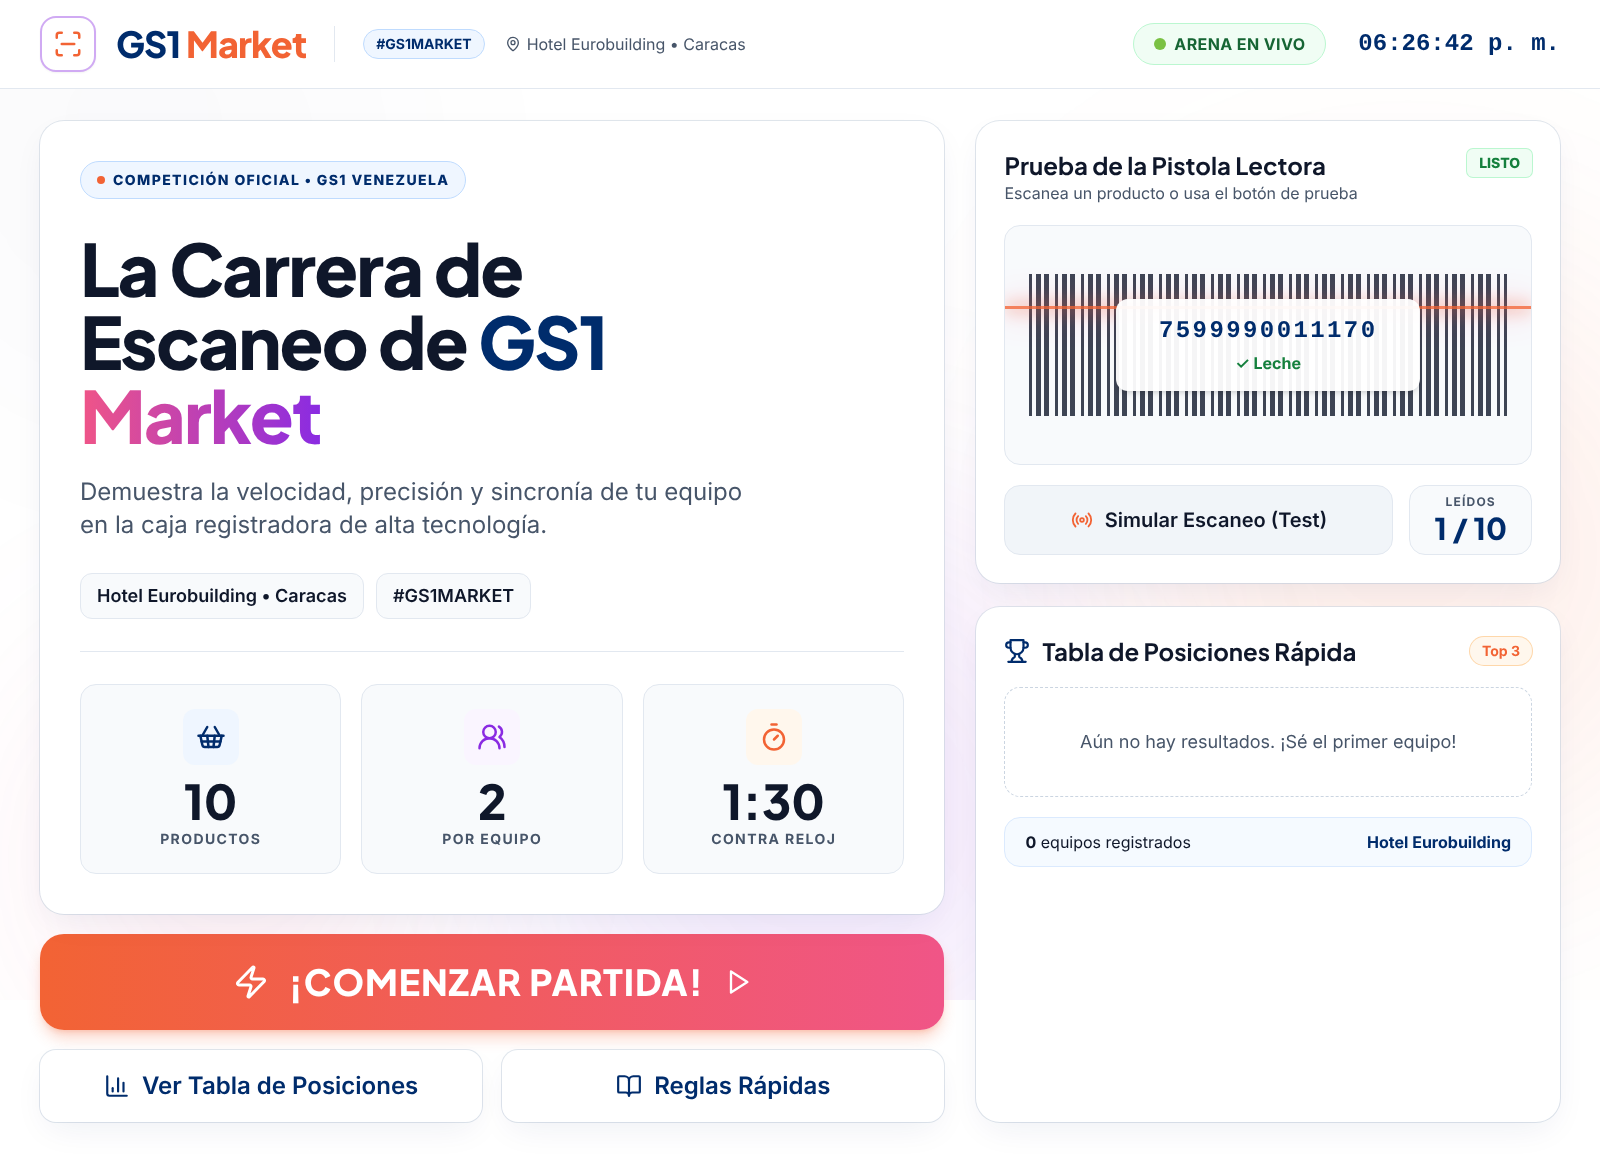
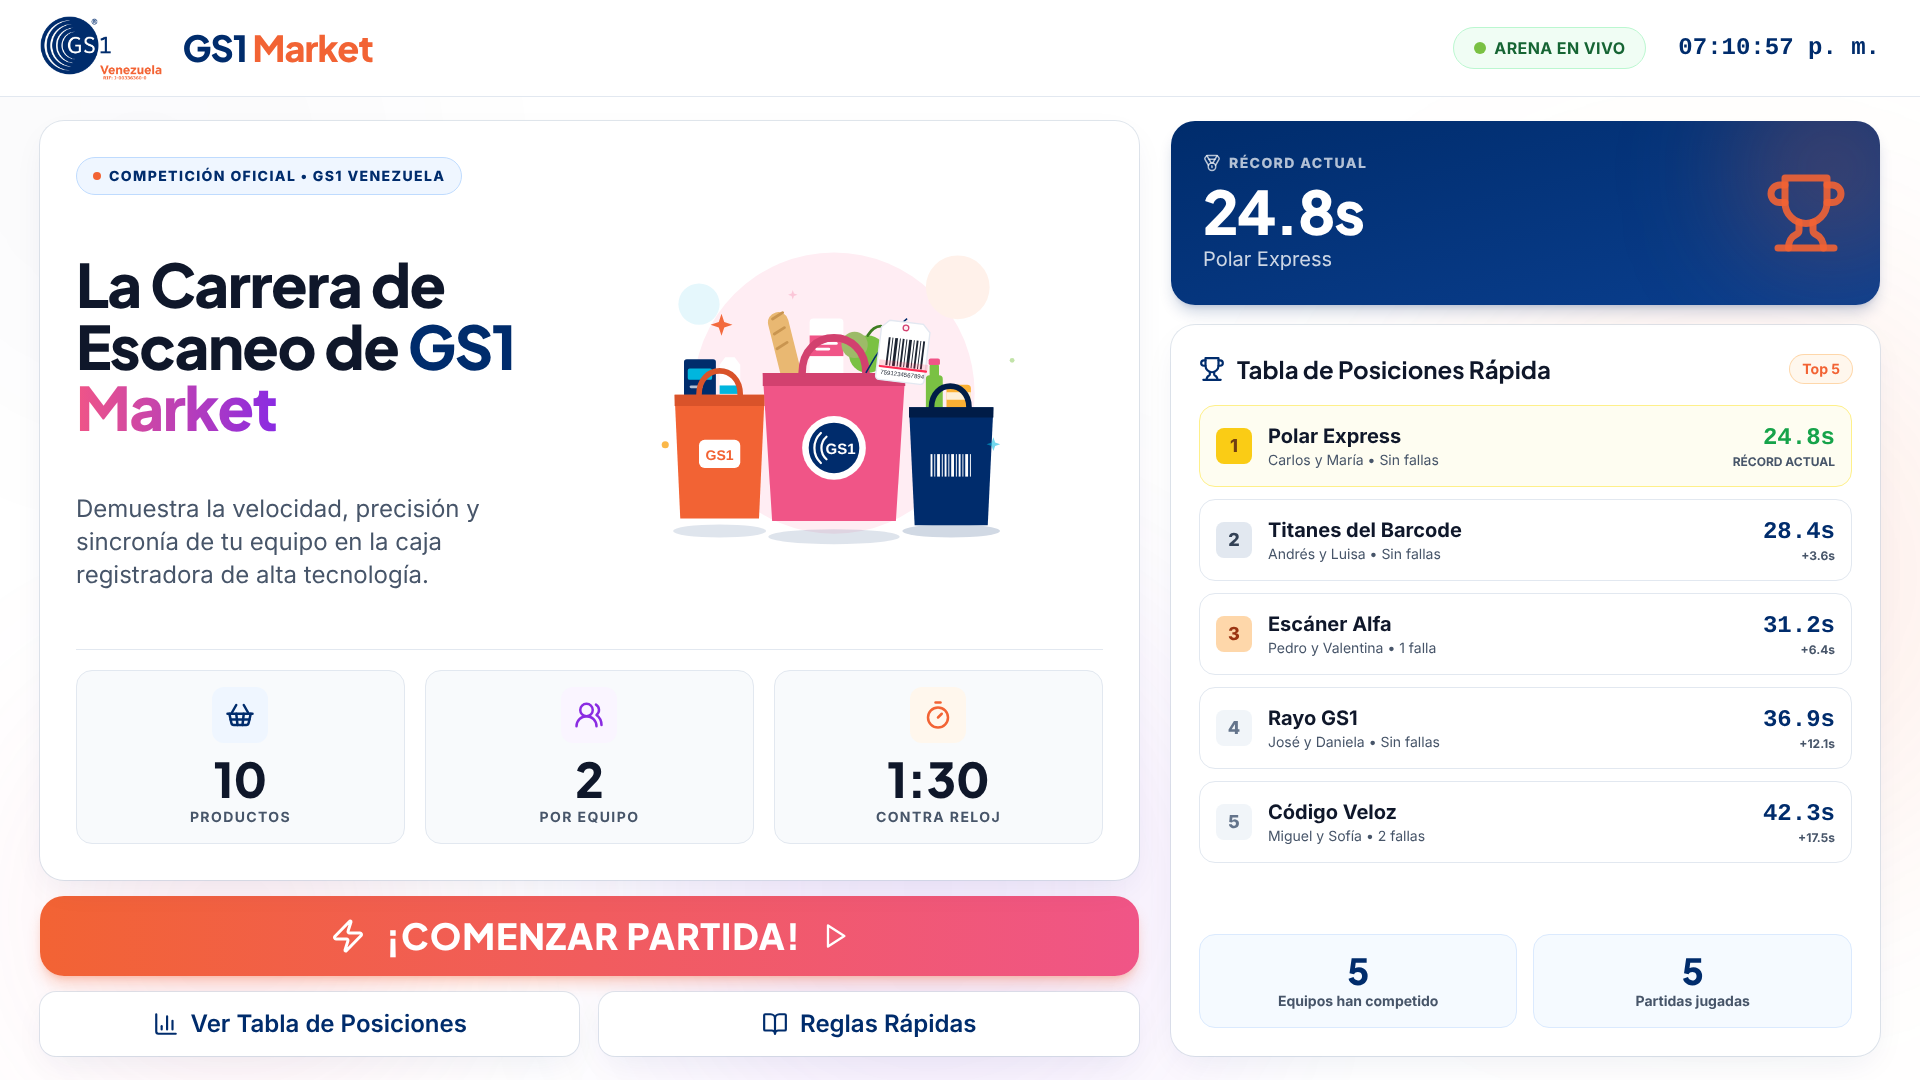
Home: remove #GS1MARKET chips; close screen 1 in plan and progress docs
Claude-Session: https://claude.ai/code/session_01TU2Uo17LwJGffbR15ov3Le

diff --git a/gs1-market/src/screens/HomeScreen.tsx b/gs1-market/src/screens/HomeScreen.tsx
@@ -39,9 +39,6 @@ export function HomeScreen({ data, onStart, onRecords }: Props) {
           <p className="mt-4 max-w-[27rem] text-2xl leading-snug text-on-surface-variant">
             Demuestra la velocidad, precisión y sincronía de tu equipo en la caja registradora de alta tecnología.
           </p>
-          <div className="mt-5 flex flex-wrap gap-3">
-            <Chip>#GS1MARKET</Chip>
-          </div>
           <div className="mt-5 grid grid-cols-3 gap-5 border-t border-slate-200 pt-5">
             <Stat icon={<ShoppingBasket size={30} />} tone="text-gs1-blue bg-blue-50" value={String(TOTAL_PRODUCTS)} label="Productos" />
             <Stat icon={<UsersRound size={30} />} tone="text-gs1-purple bg-purple-50" value={`${MAX_PLAYERS_PER_BOX}`} label="Por equipo" />
@@ -122,10 +119,6 @@ function MiniStat({ value, label }: { value: number; label: string }) {
       <div className="text-sm font-bold text-on-surface-variant">{label}</div>
     </div>
   );
-}
-
-function Chip({ children }: { children: React.ReactNode }) {
-  return <span className="rounded-xl border border-slate-200 bg-slate-50 px-4 py-2 text-lg font-semibold text-on-surface">{children}</span>;
 }
 
 function Stat({ icon, tone, value, label }: { icon: React.ReactNode; tone: string; value: string; label: string }) {

diff --git a/gs1-market/src/components/Header.tsx b/gs1-market/src/components/Header.tsx
@@ -20,8 +20,6 @@ export function Header() {
         <div className="font-display text-4xl font-extrabold tracking-tight">
           <span className="text-gs1-blue">GS1</span> <span className="text-gs1-orange">Market</span>
         </div>
-        <div className="mx-2 h-9 w-px bg-slate-200" />
-        <span className="rounded-full border border-blue-200 bg-blue-50 px-3 py-1 text-sm font-bold text-gs1-blue">#GS1MARKET</span>
       </div>
       <div className="flex items-center gap-8">
         <span className="flex items-center gap-2 rounded-full border border-green-200 bg-green-50 px-5 py-2 text-base font-bold tracking-wide text-green-800">

diff --git a/docs/informes/01-pantalla-inicio.md b/docs/informes/01-pantalla-inicio.md
@@ -1,6 +1,6 @@
 # Informe 01: Cimientos + Pantalla 1 (Inicio)
 
-Estado: **lista para revisión del usuario**. Captura: `01-inicio.png` (compara con `Carrera-de-escaneo-imagenes/.../gs1_market_pantalla_tv_interactiva/screen.png`).
+Estado: **APROBADA por el usuario (pantalla cerrada)**. Captura final: `01-inicio.png` (compara con `Carrera-de-escaneo-imagenes/.../gs1_market_pantalla_tv_interactiva/screen.png`).
 
 ## Qué se hizo
 **Cimientos (`gs1-market/`)**: Electron + Vite + React + TypeScript estricto + Tailwind. Fuentes Inter y Plus Jakarta Sans empaquetadas (sin CDN).
@@ -31,8 +31,9 @@ Estado: **lista para revisión del usuario**. Captura: `01-inicio.png` (compara 
 ## Ajuste posterior (revisión del usuario)
 - Se **quitó el simulador/prueba de pistola** del Inicio.
 - Para llenar el espacio, tomando ideas de la versión vertical que mostró el usuario: tarjeta azul de **Récord actual** (tiempo y equipo), Top 3, y contadores de **equipos que han competido** y **partidas jugadas**. Datos reales desde los resultados guardados.
-- La captura `01-inicio.png` es de la primera versión (con simulador); ver cambios arriba.
 - **Datos de ejemplo** (`src/data/demoResults.ts`): mientras no haya resultados reales, el Inicio muestra 5 equipos de muestra (récord, Top 3 y contadores). Desaparecen solos con la primera partida real. Se apagan con `SHOW_DEMO_WHEN_EMPTY = false`.
 - **Sin scroll (pantalla pública):** la app se dibuja en un lienzo fijo de 1920x1080 (`src/components/Stage.tsx`) que se escala para caber en cualquier ventana, sin barras de desplazamiento. Verificado en 1920x1080, 1920x870, 1366x768 y 3840x2160 (scroll = 0). **Todas las pantallas siguientes deben caber en ese lienzo.**
 - La tabla rápida muestra ahora el **Top 5**.
 - Ilustración animada de bolsas GS1 (`src/assets/retail-bolsas.svg`, enviada por el usuario) en el hueco de la tarjeta principal, a la derecha del título.
+- Logo de GS1 Venezuela en la cabecera (reemplaza el icono de escáner): `src/assets/logo-gs1-venezuela.png`.
+- Se quitó el chip **#GS1MARKET** (cabecera y tarjeta principal). Captura final actualizada.

diff --git a/docs/PROGRESO.md b/docs/PROGRESO.md
@@ -4,13 +4,13 @@
 
 ## Estado actual
 - Fase 0 (cimientos): **hecha** (`gs1-market/`).
-- Pantalla 1 (Inicio): **lista, esperando revisión del usuario** (`informes/01-pantalla-inicio.md`).
+- Pantalla 1 (Inicio): **CERRADA / aprobada** (`informes/01-pantalla-inicio.md`).
 - Pantalla 2 (Registro): pendiente.
 - Pantalla 3 (Desafío): pendiente.
 - Pantalla 4 (Posiciones): pendiente.
 
 ## Siguiente paso
-Revisión del usuario de la pantalla 1. Con su visto bueno: pantalla 2 (Registro).
+Pantalla 2 (Registro). Debe caber en el lienzo 1920x1080 sin scroll.
 Comandos: `cd gs1-market && npm install && npm run dev` (navegador), `npm test`, `npm run build`.
 
 ## Bitácora

diff --git a/docs/PLAN.md b/docs/PLAN.md
@@ -44,7 +44,7 @@ Cada pantalla pasa por: **construir → verificar (typecheck, lint, build, captu
 
 | # | Pantalla | Referencia | Estado |
 |---|---|---|---|
-| 1 | Inicio / Hub | `gs1_market_pantalla_tv_interactiva` | Pendiente |
+| 1 | Inicio / Hub | `gs1_market_pantalla_tv_interactiva` | **Cerrada** |
 | 2 | Registro de escuadrón | `gs1_market_registro_de_equipo_tv_interactiva` | Pendiente |
 | 3 | Desafío en vivo | `gs1_market_desaf_o_en_vivo_tv_interactiva` | Pendiente |
 | 4 | Tabla de posiciones | `gs1_market_tabla_de_posiciones_tv_interactiva` | Pendiente |
